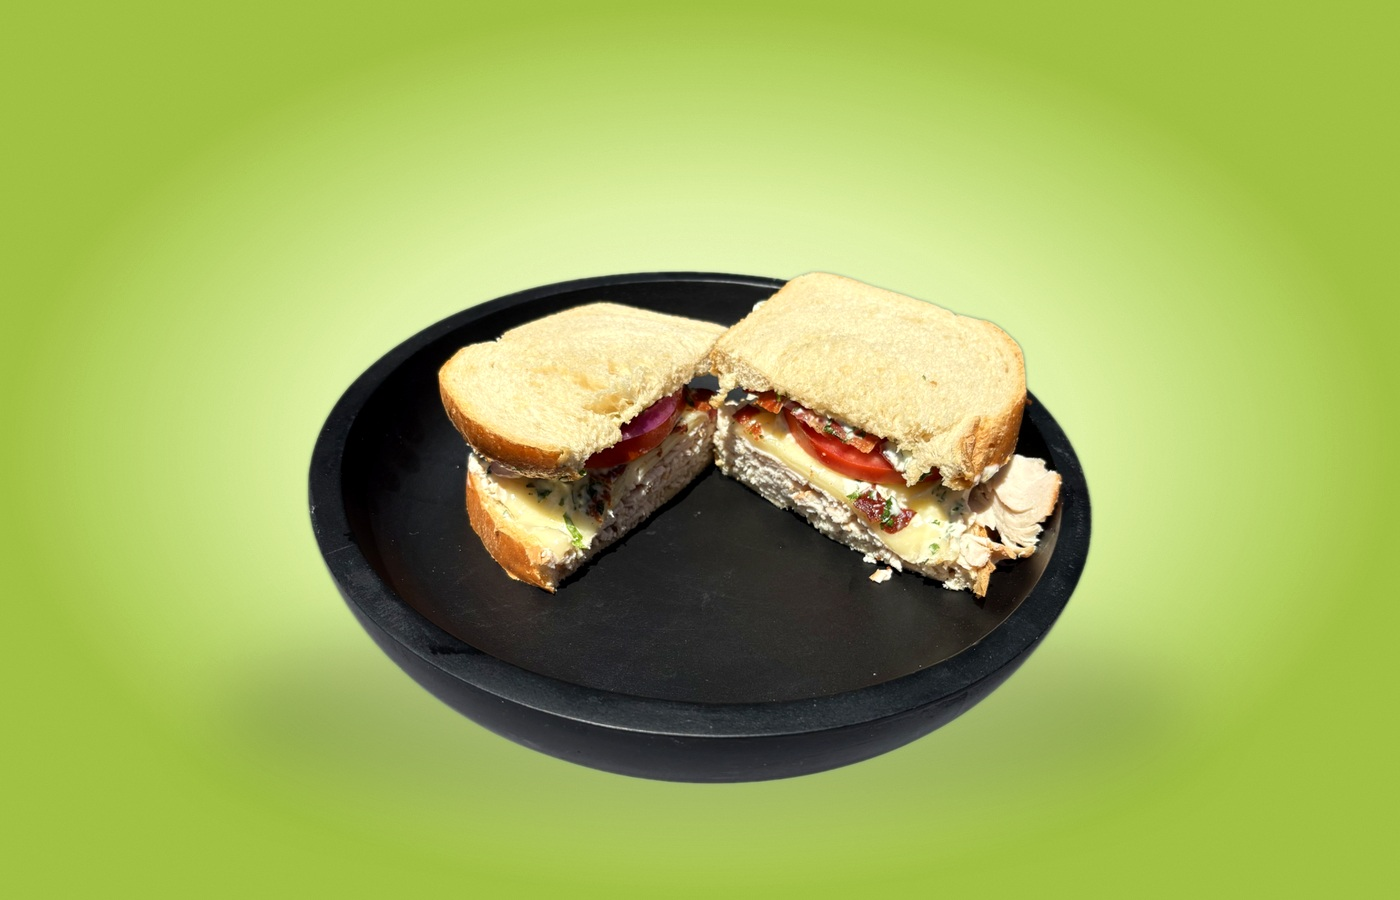
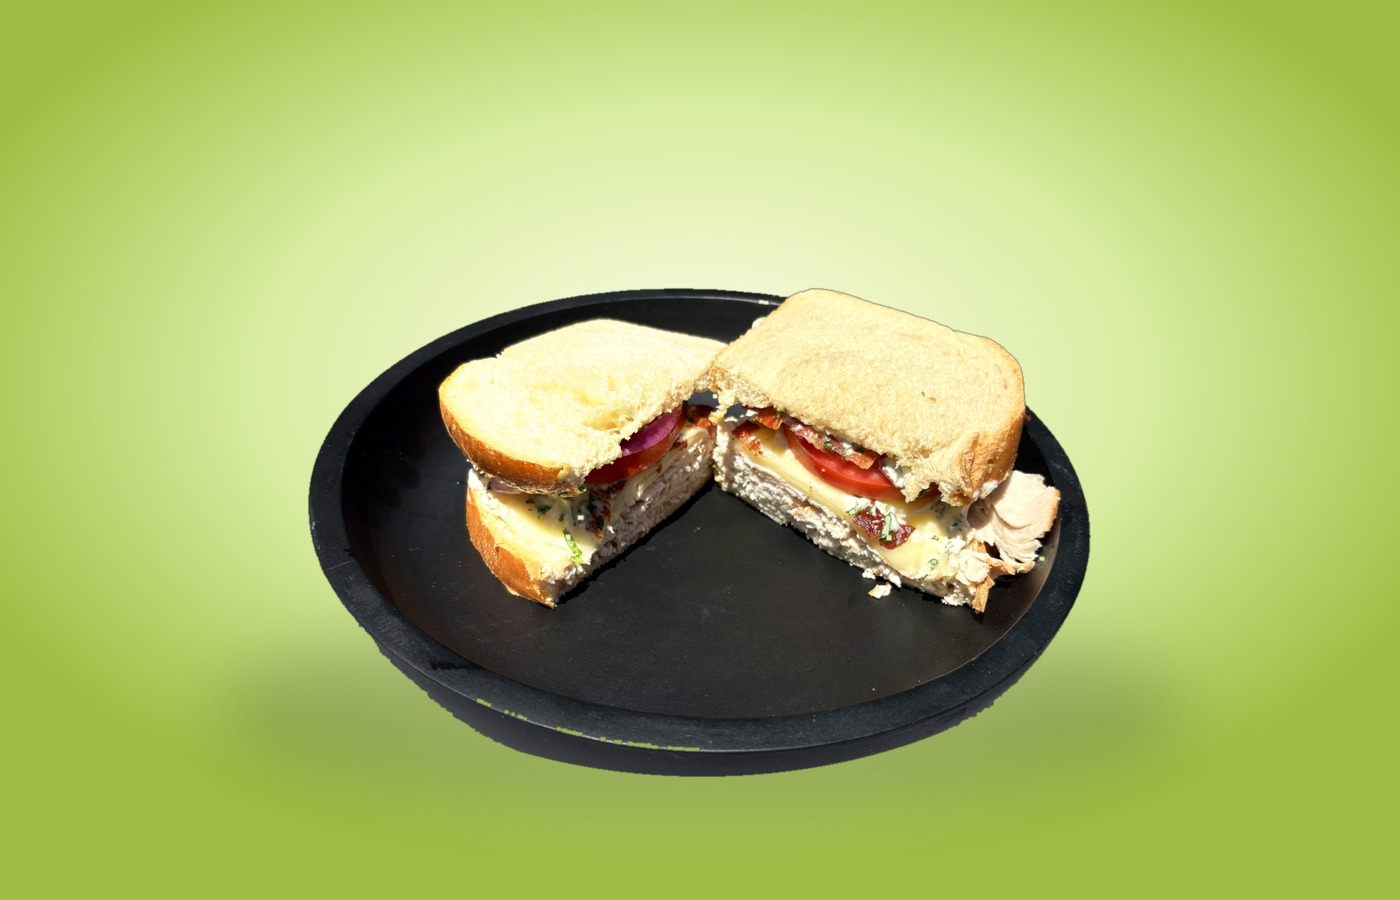
Add files via upload

diff --git a/index.html b/index.html
@@ -335,7 +335,7 @@
 </section>
 <section id="menu" class="white"><div class="wrap"><div class="heading"><p class="label">Menu</p><h2>Eight sandwiches built for the truck.</h2></div><h3 class="cat">Signature Sandwiches</h3><p class="menu-note">All sandwiches served with a small bag of Lay’s Classic chips.</p><div class="menu-grid">
 <article class="card signature-card"><div class="food food-image" data-lightbox-src="green-apple-sandwich-green-bg.jpg" data-lightbox-caption="The Green Apple"><img src="green-apple-sandwich-green-bg.jpg" alt="The Green Apple signature sandwich on toasted sourdough with turkey, bacon, smoked gouda, red onions, green apple slices, and cream cheese"></div><div class="body"><div class="top"><h3>The Green Apple</h3><span class="price">$14</span></div><p class="desc">Warm, tender turkey paired with applewood smoked bacon, fresh green apple slices, melted smoked gouda, and sautéed red onions, finished with smooth cream cheese on toasted sourdough.</p><span class="badge">Signature</span></div></article>
-<article class="card"><div class="food"><div><div class="icon">🥪</div><p>Food photo</p></div></div><div class="body"><div class="top"><h3>The Gobbler</h3><span class="price">$13</span></div><p class="desc">Warm, roasted turkey layered with applewood smoked bacon, melted provolone cheese, fresh tomato slices, and savory sautéed onions, topped with zesty cilantro mayo, all on toasted sourdough.</p><span class="badge">Turkey</span></div></article>
+<article class="card"><div class="food food-image" data-lightbox-src="gobbler-website-green-bg.jpg" data-lightbox-caption="The Gobbler"><img src="gobbler-website-green-bg.jpg" alt="The Gobbler sandwich with turkey, applewood smoked bacon, provolone, tomato, onions, and cilantro mayo"></div><div class="body"><div class="top"><h3>The Gobbler</h3><span class="price">$13</span></div><p class="desc">Warm, roasted turkey layered with applewood smoked bacon, melted provolone cheese, fresh tomato slices, and savory sautéed onions, topped with zesty cilantro mayo, all on toasted sourdough.</p><span class="badge">Turkey</span></div></article>
 <article class="card"><div class="food"><div><div class="icon">🥪</div><p>Food photo</p></div></div><div class="body"><div class="top"><h3>The Green Apple Club</h3><span class="price">$14</span></div><p class="desc">A hearty double-decker with tender ham, savory roast beef, and crispy applewood smoked bacon, complemented by Swiss cheese, crisp lettuce, juicy tomato, and fresh onion, finished with zesty cilantro mayo and spicy whole grain mustard, all on toasted marbled rye.</p><span class="badge">Club</span></div></article>
 <article class="card"><div class="food"><div><div class="icon">🥪</div><p>Food photo</p></div></div><div class="body"><div class="top"><h3>Uncle Victor’s Sassy Roast Beef</h3><span class="price">$15</span></div><p class="desc">Savory hot roast beef seasoned with Cajun spices, paired with sautéed onions, crisp lettuce, and juicy tomato, topped with melted Monterey Jack, smoky BBQ sauce, and a zesty chipotle secret sauce, all served on a toasted Kaiser roll.</p><span class="badge">Spicy</span></div></article>
 <article class="card"><div class="food"><div><div class="icon">🥪</div><p>Food photo</p></div></div><div class="body"><div class="top"><h3>The Pastrami Reuben</h3><span class="price">$15</span></div><p class="desc">Hot pastrami layered with tangy cooked sauerkraut and melted Swiss cheese, drizzled with spicy Thousand Island dressing, all nestled on warm toasted marbled rye.</p><span class="badge">Classic</span></div></article>